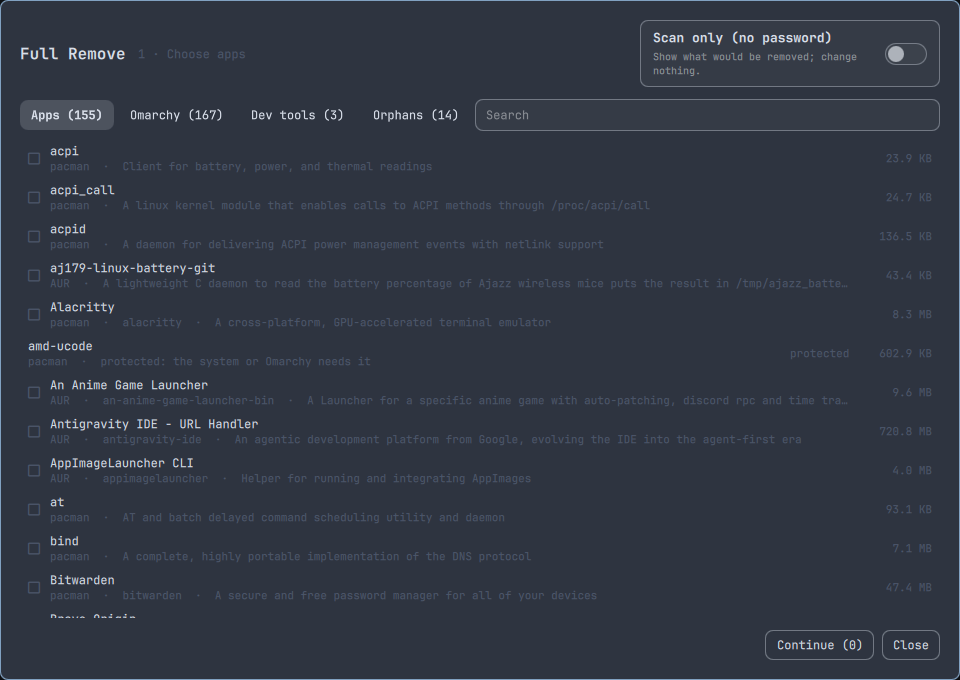
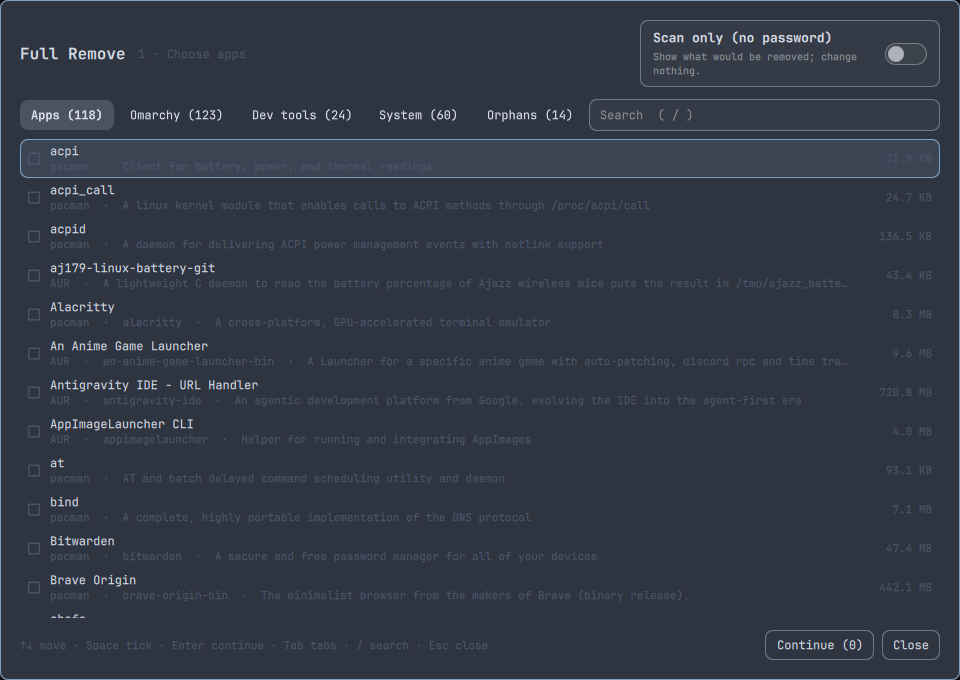
Shorten README, add contents links, update preview to five tabs

diff --git a/README.md b/README.md
@@ -1,42 +1,38 @@
 # Full Remove
 
-Uninstall apps on Omarchy and clean up what they leave behind, in one panel.
-
-Full Remove handles pacman and AUR packages, Flatpaks (system and user), Snaps,
-AppImages, and globally installed dev tools (npm, bun, uv, pipx, cargo, go,
-gem). After the uninstall it finds the app's leftover folders in your home,
-moves the ones you keep ticked to the Trash, then offers to remove orphaned
-packages and unused Flatpak runtimes.
+An Omarchy panel that uninstalls apps and cleans up what they leave behind:
+pacman and AUR packages, Flatpaks, Snaps, AppImages and global dev tools.
+Leftover folders go to the Trash, and orphans the removal created are offered
+at the end.
 
 ![Full Remove](preview.png)
 
-## How it differs from Omarchy's Remove > Package
+**Contents:** [What it does](#what-it-does) · [Install](#install) ·
+[Usage](#usage) · [Uninstall](#uninstall) · [Updating](#updating) ·
+[Security](#security) · [Development](#development)
 
-Omarchy's own entry runs `pacman -Rns` in a terminal. That removes the package
-and its unneeded dependencies, and nothing else. Full Remove also:
+## What it does
 
-- removes Flatpaks, Snaps, AppImages and dev tools from the same list
+Omarchy's Remove > Package runs `pacman -Rns` and stops there. Full Remove also:
+
+- removes Flatpaks, Snaps, AppImages and dev tools (npm, bun, uv, pipx, cargo,
+  go, gem) from the same list
 - finds leftovers in `~/.config`, `~/.local/share`, `~/.local/state`, `~/.cache`,
   `~/.var/app`, `~/snap`, dot-folders in `~`, the yay/paru build cache, and the
   package's files in `/var/cache/pacman/pkg`
 - moves leftovers to the Trash instead of deleting them
-- shows everything before it runs, including the exact command that runs as root
+- shows every command before it runs, including the one that runs as root
 - has a scan-only mode that needs no password and changes nothing
 
-## Requirements
-
-- Omarchy 4.x (Quattro shell)
-- `python3`, `gio` (glib2) and `polkit`, all present on a normal Omarchy install
-- Optional: `flatpak`, `snapd`, `xdg-user-dirs`, and npm / bun / uv / pipx /
-  cargo / go / ruby+gem for the Dev tools tab. Anything missing is skipped.
-
-The plugin makes no network calls and downloads nothing.
+Needs Omarchy 4.x with `python3`, `gio` and `polkit` (all on a normal install).
+`flatpak`, `snapd`, `xdg-user-dirs` and the dev tool managers are optional;
+anything missing is skipped. The plugin makes no network calls.
 
 ## Install
 
-This plugin needs a manual step: a small root helper has to be installed
-root-owned (see [Security](#security) for why). Without it, scan-only mode,
-user Flatpaks, AppImages and dev tools still work.
+Setup is manual because a small root helper has to be installed root-owned
+([why](#security)). Without it, scan-only mode, user Flatpaks, AppImages and
+dev tools still work.
 
 1. Install the plugin:
 
@@ -44,8 +40,7 @@ user Flatpaks, AppImages and dev tools still work.
    omarchy plugin add https://github.com/Rockeyxx/omarchy-plugin-full-remove --enable
    ```
 
-2. Install the root helper. Read `root/` first; it is two short files.
-   Build it from a fresh clone:
+2. Read the two files in `root/`, then install the helper from a fresh clone:
 
    ```bash
    git clone https://github.com/Rockeyxx/omarchy-plugin-full-remove /tmp/full-remove
@@ -54,12 +49,8 @@ user Flatpaks, AppImages and dev tools still work.
    makepkg -si
    ```
 
-   This installs the `full-remove-helper` package: the helper at
-   `/usr/lib/full-remove/full-remove-helper` and the polkit action
-   `io.github.rockeyxx.full-remove.run`. Everything is built from the two local
-   files; nothing is downloaded.
-
-   If you prefer not to install a package, do it by hand:
+   This builds the `full-remove-helper` package from those local files. Without
+   makepkg:
 
    ```bash
    sudo install -Dm755 -o root -g root full-remove-helper /usr/lib/full-remove/full-remove-helper
@@ -67,8 +58,7 @@ user Flatpaks, AppImages and dev tools still work.
      /usr/share/polkit-1/actions/io.github.rockeyxx.full-remove.policy
    ```
 
-3. Add it to the Omarchy menu under Remove. In
-   `~/.config/omarchy/extensions/omarchy-menu.jsonc`:
+3. Add it under Remove in `~/.config/omarchy/extensions/omarchy-menu.jsonc`:
 
    ```jsonc
    "remove.full-remove": {
@@ -78,7 +68,7 @@ user Flatpaks, AppImages and dev tools still work.
    }
    ```
 
-4. Optional keybind, in `~/.config/hypr/bindings.lua` (pick a free key):
+4. Optional keybind in `~/.config/hypr/bindings.lua`:
 
    ```lua
    o.bind("SUPER + ALT + DELETE", "Full Remove", "omarchy-shell shell summon io.github.rockeyxx.full-remove '{}'")
@@ -86,45 +76,34 @@ user Flatpaks, AppImages and dev tools still work.
 
 ## Usage
 
-1. **Choose apps.** Search and tick what to remove, then press Continue. Turn
-   on *Scan only (no password)* to only look. There are five tabs:
-   - **Apps:** what you installed (pacman, AUR, Flatpak, Snap, AppImage).
-   - **Omarchy:** packages Omarchy's installer put there, kept apart so they
-     are not mixed with yours.
-   - **Dev tools:** language runtimes and toolchains (python and its
-     libraries, nodejs, go, rust, JDK, dotnet, clang, gdb, ...) plus global
-     npm, bun, uv, pipx, cargo, go and gem installs.
-   - **System:** kernels, firmware, drivers, bootloader, audio/network stack,
-     and everything the system or Omarchy depends on. View only.
-   - **Orphans:** orphaned packages and unused Flatpak runtimes that already
-     exist, to clean up whenever you like.
+1. **Choose.** Tick what to remove and press Continue. Turn on *Scan only* to
+   just look.
+   - **Apps:** what you installed (pacman, AUR, Flatpak, Snap, AppImage)
+   - **Omarchy:** what Omarchy's installer put there
+   - **Dev tools:** runtimes and toolchains (python, nodejs, go, rust, JDK,
+     dotnet, clang, gdb...) plus global npm/bun/uv/pipx/cargo/go/gem installs
+   - **System:** kernels, firmware, drivers, bootloader, and anything the system
+     or Omarchy depends on. View only.
+   - **Orphans:** orphans and unused Flatpak runtimes that already exist
+2. **Review.** See what pacman also removes, which cache files go, and every
+   command. If a removal would break another package, Confirm stays off and the
+   panel names the package.
+3. **Remove.** Root work asks for your password and the log streams into the
+   panel. Closing the panel lets the running step finish and cancels the rest.
+4. **Leftovers.** Clear matches are ticked; weaker ones are marked *maybe* and
+   left unticked. Move to Trash, or *Delete permanently* after a second confirm.
+5. **Cleanup.** Only orphans and runtimes this removal created. Skipped if
+   there are none.
+6. **Done.** *Empty this run's items from Trash* deletes only what this run
+   moved there.
 
-   Keyboard: ↑/↓ move, Space tick, Enter continue, Tab / Shift+Tab switch tabs,
-   `/` or Ctrl+F search, Esc leave search, then close.
-2. **Review.** You see what pacman will also remove, the cache files that will
-   be deleted, and every command, split into "runs as root" and "runs as you".
-   If removing a package would break another installed package, Confirm stays
-   disabled and the panel names the package.
-3. **Removing.** Press Confirm. Root work asks for your password; the log
-   streams into the panel. If you close the panel, the step that is running
-   finishes and the rest is cancelled.
-4. **Leftovers.** Folders that clearly belong to the app are ticked. Weaker
-   matches are marked *maybe* and unticked, with the reason shown. Untick
-   anything you want to keep, then *Move to Trash*. *Delete permanently…* skips
-   the Trash, after its own confirmation.
-5. **Cleanup.** Only orphans and unused runtimes that *this removal* created
-   are offered (orphans ticked, runtimes unticked because that list is an
-   estimate; flatpak refuses to remove a runtime an app still needs). If the
-   removal left none behind, this step is skipped. Older orphans are on the
-   Orphans tab.
-6. **Done.** *Empty this run's items from Trash…* permanently deletes only what
-   this run moved there.
+Scan-only mode ends in a report you can copy or export to Downloads.
 
-In scan-only mode you get the full report instead, with *Copy* and *Export*
-(a text file in your Downloads folder).
+Keys: ↑/↓ move, Space tick, Enter continue, Tab switch tabs, `/` or Ctrl+F
+search, Esc leave search, then close.
 
-Logs of this boot's runs are in `/run/user/<uid>/full-remove/`. pacman also
-records every removal in `/var/log/pacman.log`.
+Logs for the current boot are in `/run/user/<uid>/full-remove/`. pacman also
+logs every removal to `/var/log/pacman.log`.
 
 ## Uninstall
 
@@ -141,13 +120,12 @@ sudo rm /usr/lib/full-remove/full-remove-helper \
 sudo rmdir /usr/lib/full-remove
 ```
 
-Then remove the `remove.full-remove` entry from `omarchy-menu.jsonc`, and the
-keybind if you added one.
+Then delete the `remove.full-remove` menu entry and the keybind, if you added
+them.
 
 ## Updating
 
-Plugins run unsandboxed with your full user rights, so read what changed before
-you update:
+Plugins run with your full user rights, so read the changes first:
 
 ```bash
 cd ~/.config/omarchy/plugins/io.github.rockeyxx.full-remove
@@ -155,79 +133,61 @@ git fetch && git log -p HEAD..origin/main
 omarchy plugin update io.github.rockeyxx.full-remove
 ```
 
-If the update touches `root/`, the panel will tell you the helper is outdated.
-Read the new `root/` files, then reinstall the helper from a fresh clone as in
-step 2 of Install.
+If `root/` changed, the panel says the helper is outdated. Read the new files
+and reinstall the helper from a fresh clone (Install, step 2).
 
 ## Security
 
-Read this before installing. The short version: the plugin can only ever do
-"remove these named packages" as root, it asks for your password every time,
-and it moves files to the Trash instead of deleting them.
+Omarchy plugins are not sandboxed. Read the code before installing or updating
+this one, especially `root/full-remove-helper` (about 200 lines of bash).
 
-**Plugins are not sandboxed.** An Omarchy plugin runs inside the shell with
-everything your user account can do. Read the code before installing or
-updating any plugin, this one included. The part that matters most is
-`root/full-remove-helper`, about 200 lines of bash.
+**The root helper lives outside the plugin.** The plugin folder is writable by
+your user, so anything running as you (a bad AUR package, an exploited app,
+another plugin) could swap root code kept there and wait for your next
+password. The helper is installed root-owned in `/usr/lib/full-remove/`, the
+polkit action is pinned to that path, and the panel refuses a helper that
+isn't root-owned.
 
-**Why the root helper is installed separately.** The plugin folder is owned and
-writable by your user. If the code that runs as root lived there, anything that
-manages to run as your user (a bad AUR package, an exploited app, another
-plugin) could replace it and wait for your next password prompt. So the only
-root code lives in `/usr/lib/full-remove/`, owned by root, and the polkit action
-is pinned to that exact path. The panel refuses to use a helper that is not
-root-owned.
+**Your password is asked every time.** The action uses `auth_admin`, with no
+caching and no sudoers rule. The prompt shows the exact command, for example
+`Full Remove: /usr/lib/full-remove/full-remove-helper remove pkg:sl`. Only
+type your password if you just pressed Confirm and it matches the panel.
 
-**Your password is asked every time.** The polkit action uses `auth_admin`, not
-`auth_admin_keep`, and there is no sudoers rule. The prompt shows the exact
-command it will run, for example
-`Full Remove: /usr/lib/full-remove/full-remove-helper remove pkg:sl`. Only type
-your password if you just pressed Confirm and the command matches the panel.
+**The helper accepts only these items**, all checked before anything runs:
 
-**What the helper accepts.** Nothing but these items, all checked before
-anything happens:
+- `pkg:<name>`: matches `^[a-z0-9][a-z0-9@._+-]*$` and is installed under
+  exactly that name; passed to pacman after `--`
+- `flatpak:<app-id>`: an installed system Flatpak app
+- `snap:<name>`: an installed snap, never `snapd`, `core*` or `bare`
+- `orphan:<name>`: still an orphan when the helper runs
+- `runtime:runtime/<id>/<arch>/<branch>`: an installed system runtime
 
-- `pkg:<name>`: the name must match `^[a-z0-9][a-z0-9@._+-]*$` and be an
-  installed package under exactly that name. It is passed to pacman after
-  `--`, so it can never become an option.
-- `flatpak:<app-id>`: an installed system Flatpak app.
-- `snap:<name>`: an installed snap (never `snapd`, `core*` or `bare`).
-- `orphan:<name>`: a package that is still an orphan when the helper runs.
-- `runtime:runtime/<id>/<arch>/<branch>`: an installed system Flatpak runtime.
+It takes no paths or commands, uses no temp files and reads no environment
+variables. It finds cache files itself, only directly in `/var/cache/pacman/pkg`,
+without following symlinks, and only when the package name matches exactly.
 
-It finds cache files itself, only directly inside `/var/cache/pacman/pkg`,
-never following symlinks, and only files whose package name exactly equals a
-removed package. It takes no paths and no commands, uses no temp files, and
-reads no environment variables.
+**It refuses essential packages:** kernels, bootloader, glibc, systemd, pacman,
+sudo, polkit, PAM, firewall/AppArmor/audit tools, and anything Omarchy depends
+on. It also refuses when pacman can't work out what a removal would take with
+it.
 
-**It refuses essential and security packages.** If the full removal set
-contains the kernel, bootloader, glibc, systemd, pacman, sudo, polkit, PAM,
-firewall/AppArmor/audit tools, any Omarchy package or anything Omarchy depends
-on, the helper refuses. It also refuses whenever pacman cannot work out the
-removal set.
+**Home cleanup never runs as root.** Leftovers go to the Trash, and symlinks
+are moved as links (their targets stay). Only direct children of the folders
+listed in [What it does](#what-it-does) can be moved, so Documents, Pictures
+and the like are off limits. If trashing fails, the item stays put.
 
-**Leftovers go to the Trash.** Home folder cleanup never runs as root and
-never follows symlinks: a symlinked folder is moved as a link, its target is
-left alone. Only direct children of the cleanup folders listed above can be
-moved; your Documents, Pictures and similar folders cannot. A failed trash
-leaves the item in place; it never falls back to deleting.
+**Known limits:**
 
-**Scan-only mode** never asks for a password and changes nothing. It runs the
-same detection and shows what would be removed.
-
-**Known limits.** No remover can fix these:
-
-- A package's own pre/post-remove script runs as root during the uninstall.
-  It already had root when it was installed.
-- Code that already runs as your user could draw a fake password prompt, or
-  read input inside the shell (Omarchy's polkit agent runs in the same shell
-  process as every plugin). Local polkit rules, such as Arch's `empower` group,
-  can turn a password prompt into "yes".
-- Flatpak's own polkit rule lets wheel users remove system Flatpaks with no
-  password. Routing them through this helper adds a prompt but no protection.
-- Installing the helper is a trust step, like any AUR package: you build it
-  from files in a folder your user can write. Build from a fresh clone you have
-  read.
+- A package's own pre/post-remove script runs as root during removal. It had
+  root at install time too.
+- Code already running as you could fake a password prompt or read input in
+  the shell, since Omarchy's polkit agent runs in the same process as every
+  plugin. Local polkit rules, like Arch's `empower` group, can skip the
+  password.
+- Flatpak lets wheel users remove system Flatpaks without a password anyway;
+  the helper adds a prompt but no real protection there.
+- Installing the helper is a trust step, like any AUR package. Build it from a
+  fresh clone you've read.
 - Malware that already has root is out of scope.
 
 ## Development
@@ -239,9 +199,9 @@ qmllint -I /usr/share/omarchy/shell Panel.qml ItemRow.qml
 omarchy plugin validate .
 ```
 
-After editing QML in an installed copy, run `omarchy-restart-shell`. Hot reload
-can keep serving the old panel code.
+After editing QML in an installed copy, run `omarchy-restart-shell`; hot reload
+can keep serving the old panel.
 
 ## License
 
-MIT, see [LICENSE](LICENSE).
+MIT. See [LICENSE](LICENSE).
